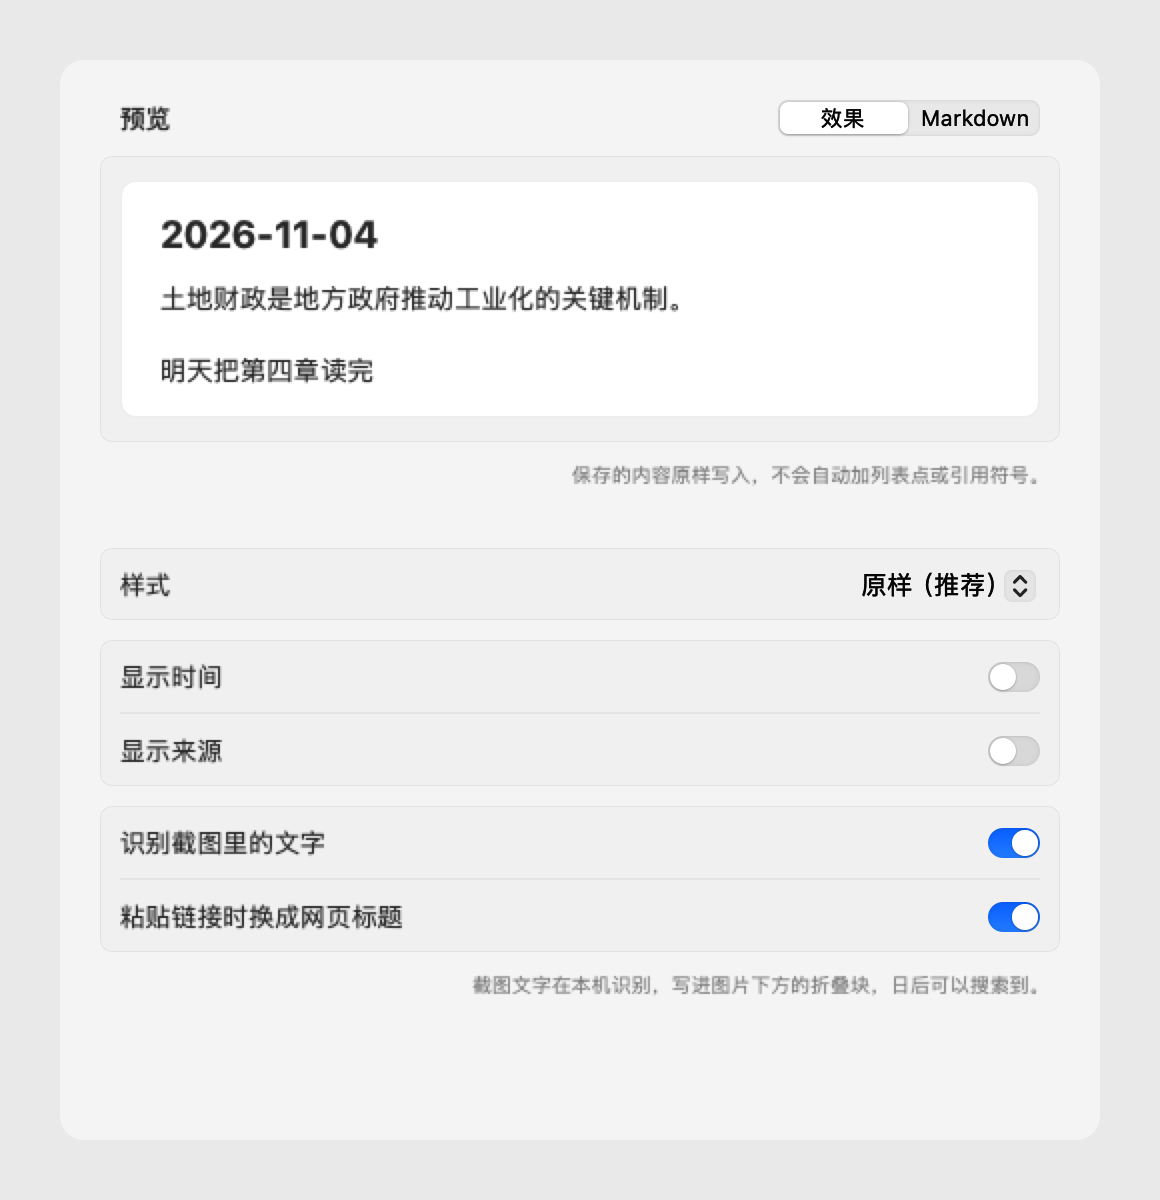
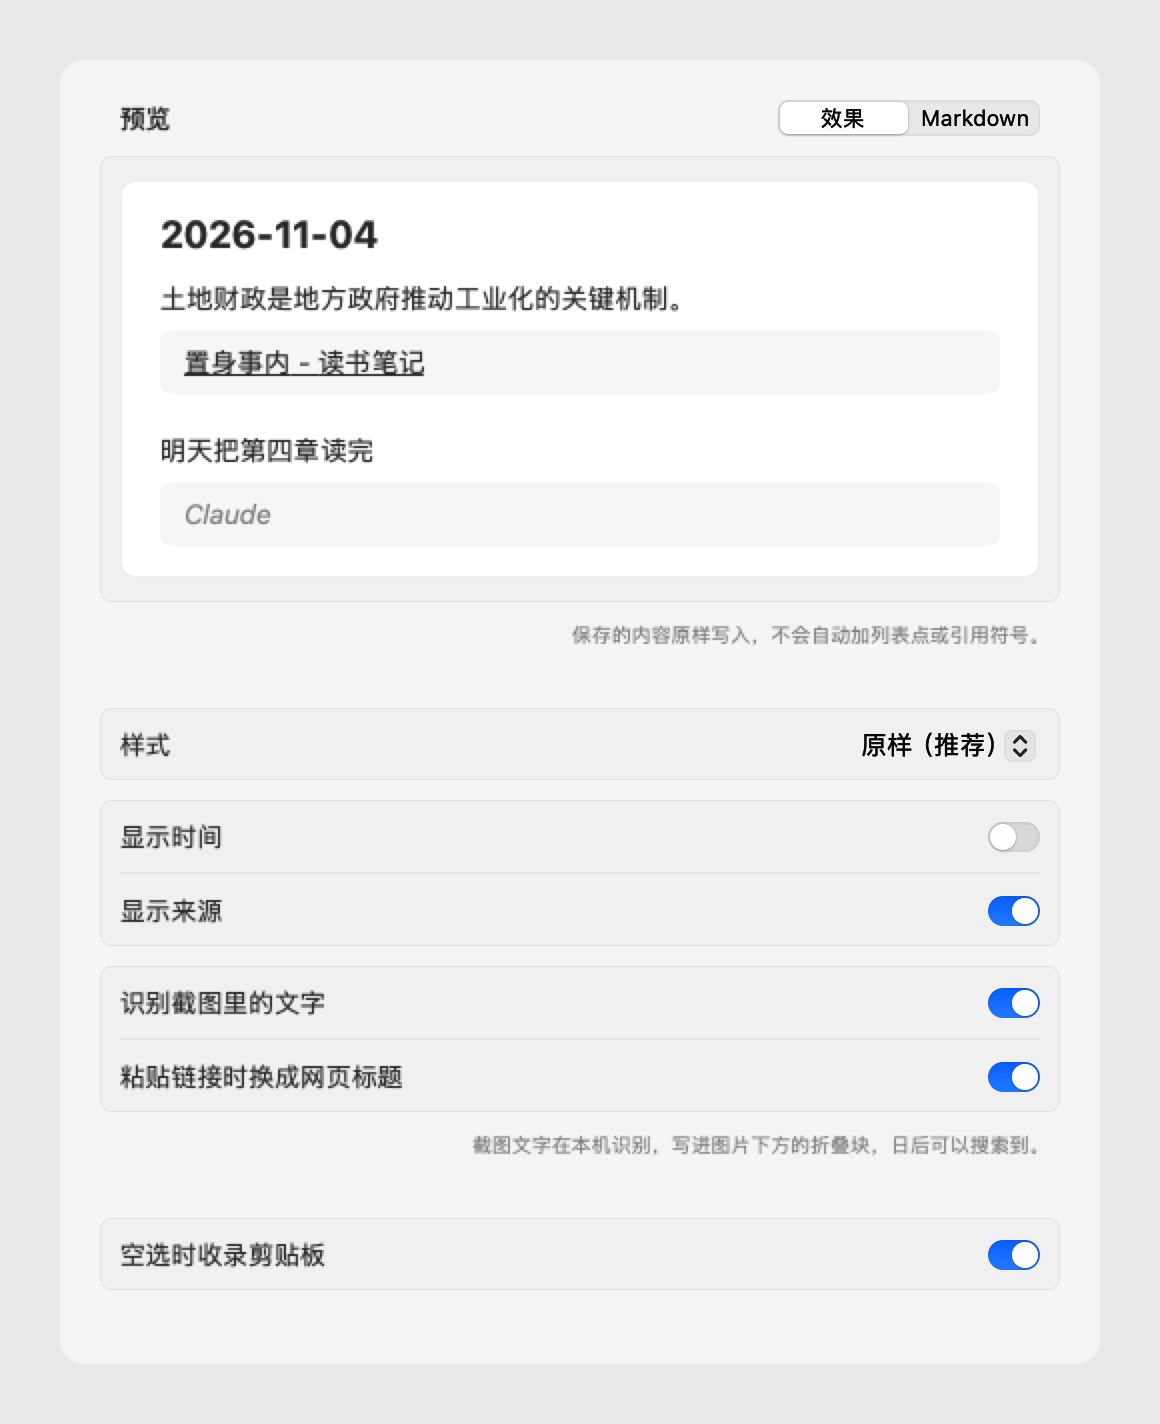
乔木闪记 1.5.1: switch to skip the clipboard on empty ⌘⇧K
- Settings → Record: 空选时收录剪贴板 (from #6 by @istoolsfox)
- Site: version 1.5.1, refreshed About and Record screenshots

diff --git a/site/index.html b/site/index.html
@@ -28,7 +28,7 @@
   "alternateName": "Jot",
   "operatingSystem": "macOS 13+, Windows 10 2004+",
   "applicationCategory": "ProductivityApplication",
-  "softwareVersion": "1.5.0",
+  "softwareVersion": "1.5.1",
   "offers": { "@type": "Offer", "price": "0", "priceCurrency": "USD" },
   "downloadUrl": ["https://github.com/joeseesun/qiaomu-jot/releases/latest/download/Jot.dmg", "https://github.com/joeseesun/qiaomu-jot/releases/download/windows-v1.0.0/QiaomuJot-Windows-x64.zip"],
   "url": "https://jot.qiaomu.ai/",
@@ -102,7 +102,7 @@
       <a class="btn btn-lg btn-primary" href="https://github.com/joeseesun/qiaomu-jot/releases/latest/download/Jot.dmg" data-os="mac"><svg><use href="#i-apple"/></svg>下载 Mac 版</a>
       <a class="btn btn-lg btn-ghost" href="https://github.com/joeseesun/qiaomu-jot/releases/download/windows-v1.0.0/QiaomuJot-Windows-x64.zip" data-os="win"><svg><use href="#i-windows"/></svg>下载 Windows 版</a>
     </div>
-    <p class="hero-meta">免费 · MIT 开源 · <span data-meta="mac">Mac v1.5.0，macOS 13+，经 Apple 公证</span> · <span data-meta="win">Windows 测试版，Windows 10 2004+ / 11</span></p>
+    <p class="hero-meta">免费 · MIT 开源 · <span data-meta="mac">Mac v1.5.1，macOS 13+，经 Apple 公证</span> · <span data-meta="win">Windows 测试版，Windows 10 2004+ / 11</span></p>
   </div>
 
   <div class="wrap">
@@ -358,8 +358,8 @@
     <div class="gallery">
       <figure><picture><source srcset="assets/shots/picker-q-dark.webp" media="(prefers-color-scheme: dark)"><img src="assets/shots/picker-q.webp" alt="⌘P 全库搜索：名称匹配和笔记正文匹配" loading="lazy" width="1320" height="1002"></picture><figcaption><b>⌘P 全库搜索</b>按名称搜，也能搜到笔记正文里的句子</figcaption></figure>
       <figure><picture><source srcset="assets/shots/scenes-dark.webp" media="(prefers-color-scheme: dark)"><img src="assets/shots/scenes.webp" alt="场景设置：灵感与读书摘录，各自的快捷键和保存位置" loading="lazy" width="1160" height="1316"></picture><figcaption><b>场景</b>每个场景一个快捷键：打开输入框，或直接收录</figcaption></figure>
-      <figure><picture><source srcset="assets/shots/record-dark.webp" media="(prefers-color-scheme: dark)"><img src="assets/shots/record.webp" alt="记录格式设置：实时预览、样式、时间和来源开关" loading="lazy" width="1136" height="1176"></picture><figcaption><b>记录格式</b>样式、时间、来源开关，实时预览写出来的样子</figcaption></figure>
-      <figure><picture><source srcset="assets/shots/about-dark.webp" media="(prefers-color-scheme: dark)"><img src="assets/shots/about.webp" alt="关于页：版本 1.5.0、检查更新、反馈问题、使用说明、源代码" loading="lazy" width="1160" height="1192"></picture><figcaption><b>关于</b>版本、检查更新、反馈、使用说明、源代码</figcaption></figure>
+      <figure><picture><source srcset="assets/shots/record-dark.webp" media="(prefers-color-scheme: dark)"><img src="assets/shots/record.webp" alt="记录设置：实时预览、样式、时间和来源、空选时收录剪贴板" loading="lazy" width="1160" height="1424"></picture><figcaption><b>记录格式</b>样式、时间、来源开关，实时预览写出来的样子</figcaption></figure>
+      <figure><picture><source srcset="assets/shots/about-dark.webp" media="(prefers-color-scheme: dark)"><img src="assets/shots/about.webp" alt="关于页：版本 1.5.1、检查更新、反馈问题、使用说明、源代码" loading="lazy" width="1160" height="1192"></picture><figcaption><b>关于</b>版本、检查更新、反馈、使用说明、源代码</figcaption></figure>
     </div>
   </div>
 </section>
@@ -403,7 +403,7 @@
         <a class="dl-card" href="https://github.com/joeseesun/qiaomu-jot/releases/latest/download/Jot.dmg" data-os="mac">
           <svg class="dl-os"><use href="#i-apple"/></svg>
           <b>macOS</b>
-          <span>v1.5.0 · 6 MB · macOS 13+</span>
+          <span>v1.5.1 · 6 MB · macOS 13+</span>
           <span>Apple 芯片与 Intel 通用，经 Apple 公证，内置自动更新</span>
           <span class="dl-btn"><svg><use href="#i-download"/></svg>下载 Jot.dmg</span>
         </a>
